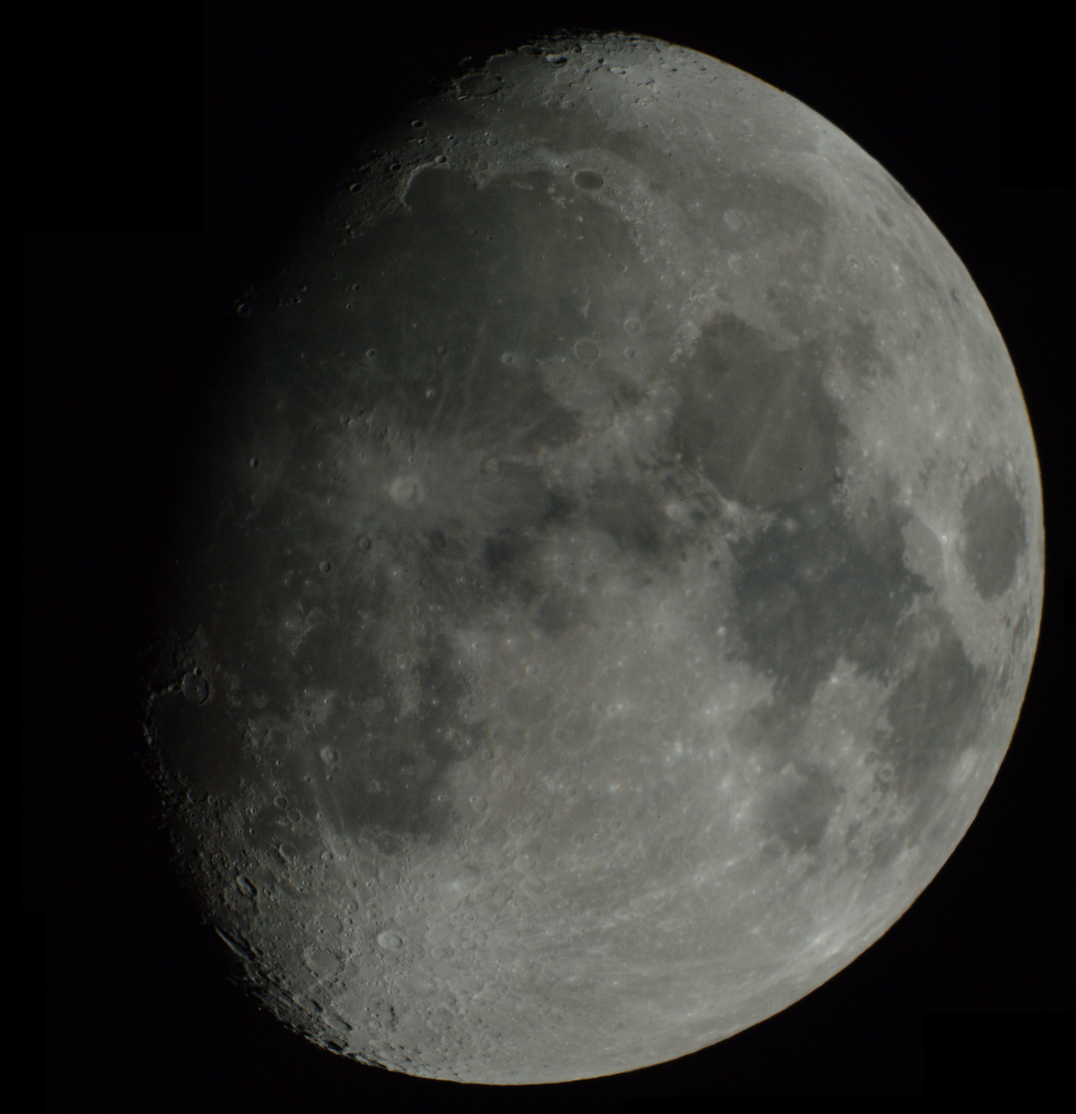
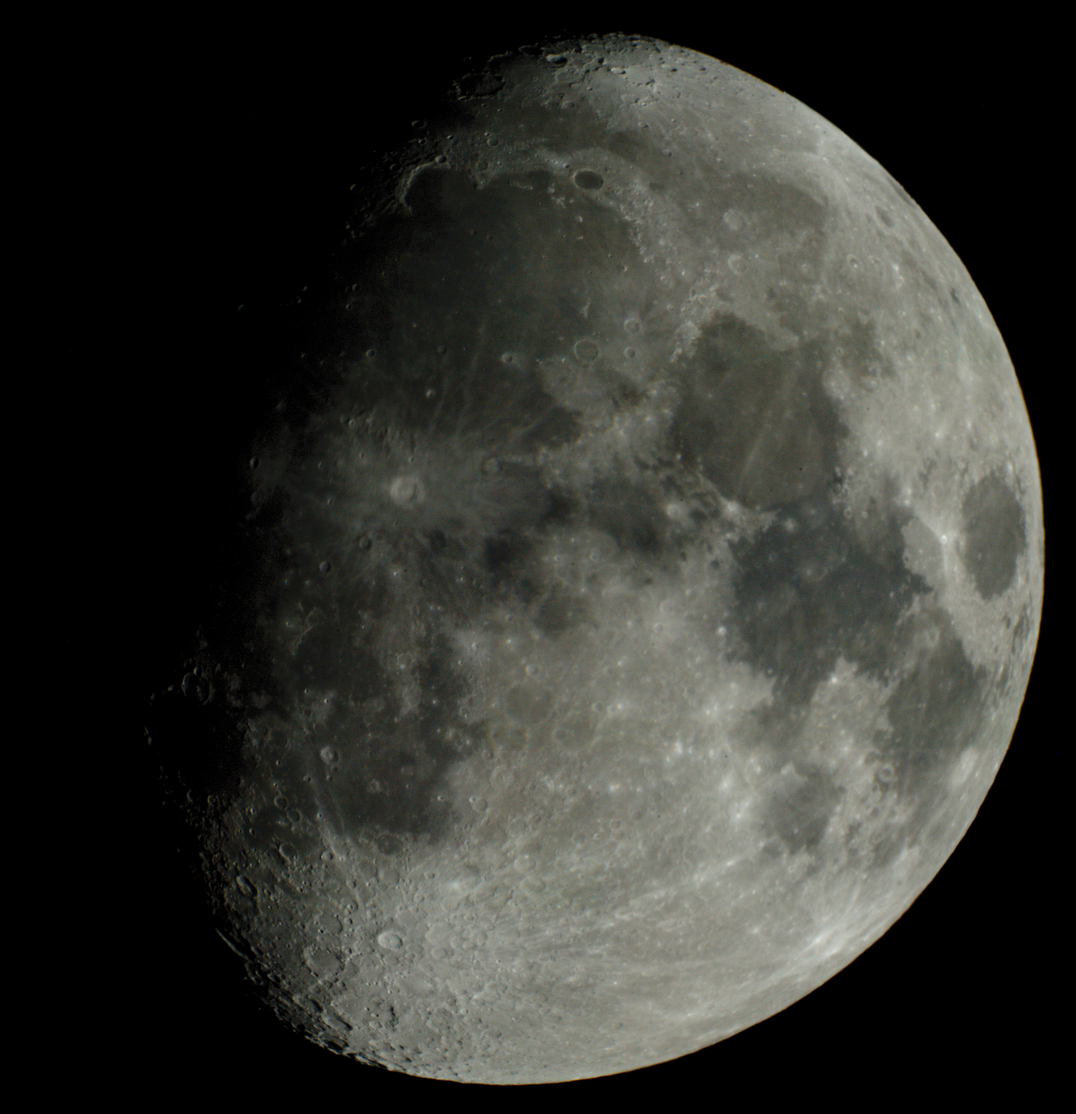
Added PA post

diff --git a/_posts/2017-12-1-Extreme-Declination.md b/_posts/2017-12-1-Extreme-Declination.md
@@ -1,0 +1,47 @@
+---
+layout: post
+title: "Congressional elections with extreme partisan asymmetry"
+category: gerrymandering
+tags: [SCOTUS,PA,math]
+use_math: true
+---
+
+# Extreme values of partisan asymmetry
+
+With the upcoming court cases in Pennsylvania, I went back to look at
+which historical congressional elections have displayed the most
+significant partisan asymmetry. The current Pennsylvania district,
+amazingly, occupies three of the top seven spots among elections with
+the most pro-Republican advantage according to a scaled declination
+measure.
+
+The [declination](https://arxiv.org/abs/1705.09393) can be used to
+measure asymmetry in how Democrats and Republicans are treated by a
+district plan. It takes values between -1 and +1 with 0 indicating
+symmetry, negative values indicating pro-Democrat asymmetry and
+positive values indicating pro-Republican asymmetry. Empirical data
+suggests that there are issues with comparing the value of declination
+between elections that have greatly different numbers of
+seats. Scaling the declination by one half of the log of the number of
+seats appears to make a reasonable adjustment for such
+differences. This scaled version is denoted by $\tilde{\delta}$ in the
+below tables (both tables are from my paper cited above).
+
+The first table lists the ten congressional elections since 1972 with
+the most positive value of $\tilde{\delta}$. Note that seven of the
+elections are from 2012 or later. Ohio and North Carolina each make
+two appearances while Pennsylvania appears three times.
+
+<img src="{{ site.baseurl }}/images/Rep-ten.jpg" width="400">
+
+The second table considers the corresponding ten elections with the
+most negative values of $\tilde{\delta}$. Here too the list is
+dominated by a few states: notably Massachusetts and Texas. In this
+case, though, there are no elections since 2012 that appear.
+
+<img src="{{ site.baseurl }}/images/Dem-ten.jpg" width="400">
+
+The values of $\delta_N$ are a measure of how many seats are allocable
+to the partisan asymmetry. A closely related measure is referred to as
+the *$S$-declination* in [this
+paper](https://arxiv.org/abs/1707.08681) with J. Buzas.

diff --git a/_posts/2017-1-1-Books-I-have-read-since-20xx.md b/_posts/2017-1-1-Books-I-have-read-since-20xx.md
@@ -10,8 +10,8 @@ Unless otherwise noted, book was audio format.
 2017
 - (In progress), *Modern Romance* by Aziz Ansari.
 - (In progress), *The Golem's Eye* by Jonathan Stroud.
-- (In progress), *Harry Potter and the Order of the Phoenix* by J.K. Rowling (aloud; repeat).
-- (In progress), *The Fellowship of the Ring* by J.R.R. Tolkien (aloud; repeat).
+- (In progress), *Harry Potter and the Order of the Phoenix* by J.K. Rowling (paper, aloud, repeat).
+- (In progress), *The Fellowship of the Ring* by J.R.R. Tolkien (paper, aloud, repeat).
 - Nov, *Apollo Expeditions to the Moon* by ed. by Edgar M. Cortright (paper).
 - Nov, *Guts 'N Gunships* by Mark Garrison.
 - Nov, *The Sixth Extinction* by Elizbeth Kolbert.
@@ -21,7 +21,7 @@ Unless otherwise noted, book was audio format.
 - Oct, *Born a Crime* by Trevor Noah.
 - Sep, *Lincoln in the Bardo* by George Saunders.
 - Sep, *All the King's Men* by Robert Penn Warren.
-- Aug, *The Hobbit* by J.R.R. Tolkien (aloud; repeat).
+- Aug, *The Hobbit* by J.R.R. Tolkien (paper, aloud, repeat).
 - Aug, *American Eclipse* by David Baron (paper).
 - Jul, *In the Woods* by Tana French (paper).
 - Jul, *Evicted: Poverty and Profit in the American City* by Matthew Desmond.

diff --git a/_posts/2017-11-29-Moon-tiled.md b/_posts/2017-11-29-Moon-tiled.md
@@ -9,12 +9,14 @@ tags: [moon]
 
 Taken with Nikon D200 through 8" f/6.0 Dobsonian with 2x barlow. Image
 consists of nine (raw) images merged in the Gimp. Illumination was
-82.4%. Transparency was okay; seeing was pretty good.
+82.4%. Transparency was okay; seeing was pretty good. In the
+embiggened version, craters down to about 6km in diameter are
+discernible.
 
 [<img src="{{ site.baseurl }}/images/moon-nov29-med.jpg" width="800">]({{ site.baseurl }}/images/moon-nov29-med.jpg)
 
-Stacking images might help, but there would be more issues with field
-rotation. As is, all pictures used in this composite image were taken
-within the span of about 45 seconds, so the total field rotation over
-the course of the images was only about 0.2 degrees (adjusted for in
-the Gimp).
+Stacking images might help, but (given my lack of an equatorial mount)
+there would be more issues with field rotation. As is, all pictures
+used in this composite image were taken within the span of about 45
+seconds, so the total field rotation over the course of the images was
+only about 0.2 degrees, which is negligible.
